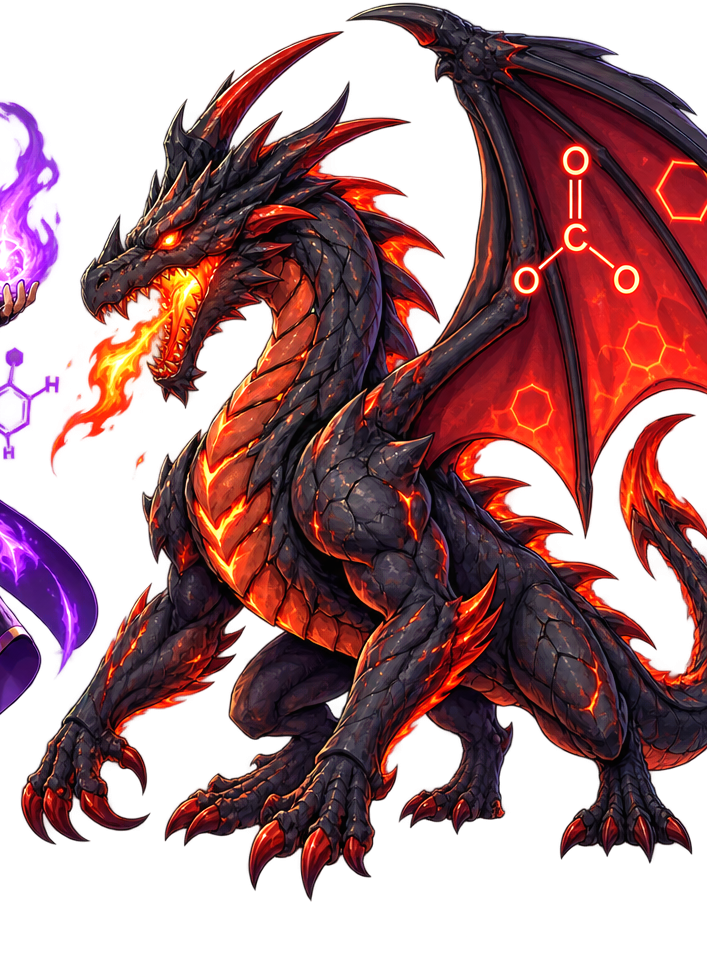
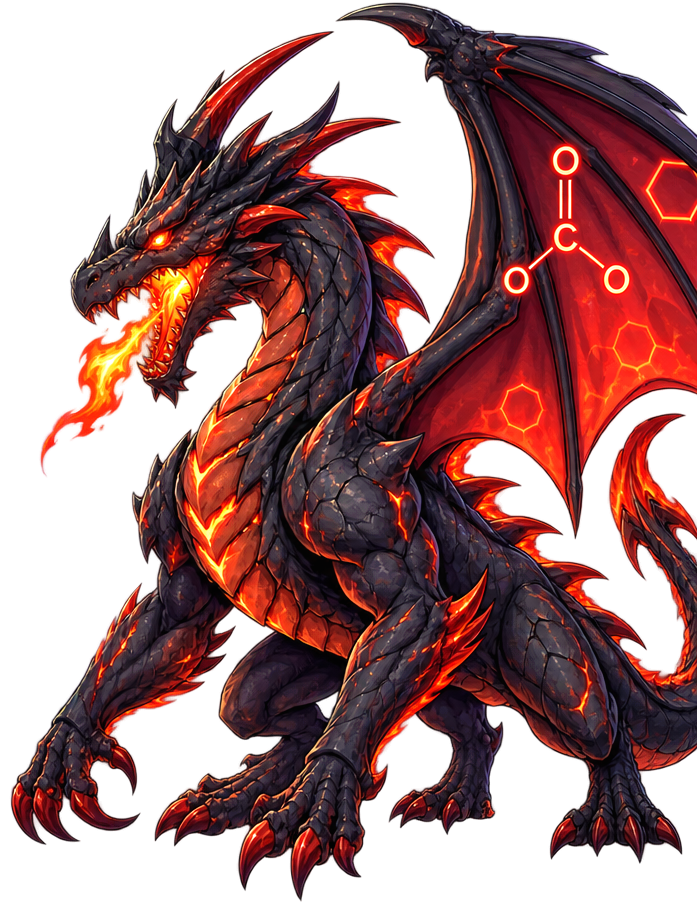
Updated pngs
pictures no more bleeding

diff --git a/static/css/game.css b/static/css/game.css
@@ -1,5 +1,5 @@
 @import url('https://fonts.googleapis.com/css2?family=DM+Mono:wght@400;500&family=Space+Grotesk:wght@400;500;600;700&display=swap');
-:root{--ink:#eaf7f5;--muted:#91aaa9;--cyan:#36e5d0;--violet:#a67cff;--orange:#ff9f5a;--panel:rgba(9,21,31,.86)}*{box-sizing:border-box}body{margin:0;background:#07111c;color:var(--ink);font-family:'Space Grotesk',sans-serif;min-height:100vh}button{font:inherit;color:inherit;cursor:pointer}#app{min-height:100vh;background:radial-gradient(circle at 50% 0,#143448 0,#07111c 52%);overflow:hidden}.hidden{display:none!important}.sigil{font-size:4rem;color:var(--cyan);text-shadow:0 0 30px var(--cyan);animation:pulse 2s infinite}.eyebrow,.panel-title{font:500 .7rem 'DM Mono',monospace;letter-spacing:.18em;color:var(--cyan)}#boot{min-height:100vh;display:grid;place-content:center;justify-items:center;text-align:center;padding:24px;background:linear-gradient(135deg,rgba(7,17,28,.65),rgba(7,17,28,.95)),url('/static/assets/battle-arena.png') center/cover}h1{font-size:clamp(4rem,12vw,10rem);line-height:.82;letter-spacing:-.08em;margin:20px 0}h1 span{color:transparent;-webkit-text-stroke:2px var(--cyan)}#boot p{color:var(--muted);margin:0 0 34px}#start,.primary{border:1px solid var(--cyan);background:rgba(54,229,208,.12);padding:16px 24px;letter-spacing:.12em;font-size:.75rem;transition:.2s}#start:hover,.primary:hover{background:var(--cyan);color:#06111b;box-shadow:0 0 35px #36e5d077}header{height:68px;display:flex;align-items:center;justify-content:space-between;padding:0 28px;border-bottom:1px solid #21404b;background:#071522dd;position:relative;z-index:4}.brand{font-weight:700;letter-spacing:.08em}.brand span{color:var(--cyan)}.brand i{font-style:normal;color:var(--orange);font-size:.7rem;margin-left:5px}.brand+div{font:500 .7rem 'DM Mono',monospace;color:var(--muted)}#mute{border:0;background:none;color:var(--muted);font:500 .65rem 'DM Mono',monospace}.game-shell{}#game-view{height:52vh;min-height:340px;display:grid;grid-template-columns:minmax(0,1fr) 300px;gap:14px;padding:14px;max-width:1500px;margin:auto}#phaser{border:1px solid #224650;border-radius:16px;overflow:hidden;background:#0b1e2c;min-height:340px}#side-panel{background:var(--panel);border:1px solid #224650;border-radius:16px;padding:18px;display:flex;flex-direction:column;gap:14px}.panel-title{padding-bottom:10px;border-bottom:1px solid #24414a}#log{font:400 .74rem/1.55 'DM Mono',monospace;color:#a8c5c0;overflow:auto}.log-line{padding:8px 0;border-bottom:1px solid #17323d}.avatar-card{display:flex;align-items:center;gap:12px}.avatar-orb{width:56px;height:56px;border-radius:50%;background:radial-gradient(circle at 60% 30%,#ffe0c0 0 20%,#6c3d79 21% 40%,#143849 41%);border:2px solid var(--cyan);box-shadow:0 0 20px #36e5d077}.avatar-name{font-weight:600}.avatar-sub{font:500 .62rem 'DM Mono',monospace;color:var(--muted)}#controls{max-width:1500px;margin:auto;padding:0 14px 20px;display:grid;grid-template-columns:minmax(300px,1fr) minmax(300px,1.3fr);gap:14px}.control-panel{background:var(--panel);border:1px solid #224650;border-radius:16px;padding:16px}.control-title{font-size:.75rem;color:var(--muted);margin-bottom:12px}.spell-grid{display:grid;grid-template-columns:repeat(3,1fr);gap:8px}.spell{border:1px solid #2b515b;background:#0b202b;border-radius:10px;padding:10px;text-align:left;min-height:74px;transition:.2s}.spell:hover:not(:disabled){border-color:var(--cyan);transform:translateY(-2px)}.spell:disabled{opacity:.38;cursor:not-allowed}.spell-name{font-weight:600;font-size:.78rem}.spell-meta{font:500 .6rem 'DM Mono',monospace;color:var(--orange);margin-top:7px}.question{font-size:1rem;line-height:1.35;margin-bottom:14px}.answers{display:grid;grid-template-columns:1fr 1fr;gap:8px}.answer{border:1px solid #2b515b;background:#0b202b;border-radius:10px;padding:12px;text-align:left;min-height:62px}.answer:hover{border-color:var(--violet);background:#18243e}.hint{font:500 .62rem 'DM Mono',monospace;color:var(--cyan)}@keyframes pulse{50%{transform:scale(1.08);filter:brightness(1.4)}}@media(max-width:800px){header{padding:0 14px}.brand{font-size:.8rem}#game-view{grid-template-columns:1fr;height:auto}#side-panel{min-height:160px}#controls{grid-template-columns:1fr}.spell-grid{grid-template-columns:repeat(3,1fr)}.spell{padding:8px}.spell-name{font-size:.68rem}}
+:root{--ink:#eaf7f5;--muted:#91aaa9;--cyan:#36e5d0;--violet:#a67cff;--orange:#ff9f5a;--panel:rgba(9,21,31,.86)}*{box-sizing:border-box}body{margin:0;background:#07111c;color:var(--ink);font-family:'Space Grotesk',sans-serif;min-height:100vh}button{font:inherit;color:inherit;cursor:pointer}#app{min-height:100vh;background:radial-gradient(circle at 50% 0,#143448 0,#07111c 52%);overflow:hidden}.hidden{display:none!important}.sigil{font-size:4rem;color:var(--cyan);text-shadow:0 0 30px var(--cyan);animation:pulse 2s infinite}.eyebrow,.panel-title{font:500 .7rem 'DM Mono',monospace;letter-spacing:.18em;color:var(--cyan)}#boot{min-height:100vh;display:grid;place-content:center;justify-items:center;text-align:center;padding:24px;background:linear-gradient(135deg,rgba(7,17,28,.65),rgba(7,17,28,.95)),url('/static/assets/battle-arena.png') center/cover}h1{font-size:clamp(4rem,12vw,10rem);line-height:.82;letter-spacing:-.08em;margin:20px 0}h1 span{color:transparent;-webkit-text-stroke:2px var(--cyan)}#boot p{color:var(--muted);margin:0 0 34px}#start,.primary{border:1px solid var(--cyan);background:rgba(54,229,208,.12);padding:16px 24px;letter-spacing:.12em;font-size:.75rem;transition:.2s}#start:hover,.primary:hover{background:var(--cyan);color:#06111b;box-shadow:0 0 35px #36e5d077}header{height:68px;display:flex;align-items:center;justify-content:space-between;padding:0 28px;border-bottom:1px solid #21404b;background:#071522dd;position:relative;z-index:4}.brand{font-weight:700;letter-spacing:.08em}.brand span{color:var(--cyan)}.brand i{font-style:normal;color:var(--orange);font-size:.7rem;margin-left:5px}.brand+div{font:500 .7rem 'DM Mono',monospace;color:var(--muted)}#mute{border:0;background:none;color:var(--muted);font:500 .65rem 'DM Mono',monospace}.game-shell{}#game-view{height:52vh;min-height:340px;display:grid;grid-template-columns:minmax(0,1fr) 300px;gap:14px;padding:14px;max-width:1500px;margin:auto}#phaser{border:1px solid #224650;border-radius:16px;overflow:hidden;background:#0b1e2c;min-height:340px}#side-panel{background:var(--panel);border:1px solid #224650;border-radius:16px;padding:18px;display:flex;flex-direction:column;gap:14px}.panel-title{padding-bottom:10px;border-bottom:1px solid #24414a}#log{font:400 .74rem/1.55 'DM Mono',monospace;color:#a8c5c0;overflow:auto}.log-line{padding:8px 0;border-bottom:1px solid #17323d}.avatar-card{display:flex;align-items:center;gap:12px}.avatar-name{font-weight:600}.avatar-sub{font:500 .62rem 'DM Mono',monospace;color:var(--muted)}#controls{max-width:1500px;margin:auto;padding:0 14px 20px;display:grid;grid-template-columns:minmax(300px,1fr) minmax(300px,1.3fr);gap:14px}.control-panel{background:var(--panel);border:1px solid #224650;border-radius:16px;padding:16px}.control-title{font-size:.75rem;color:var(--muted);margin-bottom:12px}.spell-grid{display:grid;grid-template-columns:repeat(3,1fr);gap:8px}.spell{border:1px solid #2b515b;background:#0b202b;border-radius:10px;padding:10px;text-align:left;min-height:74px;transition:.2s}.spell:hover:not(:disabled){border-color:var(--cyan);transform:translateY(-2px)}.spell:disabled{opacity:.38;cursor:not-allowed}.spell-name{font-weight:600;font-size:.78rem}.spell-meta{font:500 .6rem 'DM Mono',monospace;color:var(--orange);margin-top:7px}.question{font-size:1rem;line-height:1.35;margin-bottom:14px}.answers{display:grid;grid-template-columns:1fr 1fr;gap:8px}.answer{border:1px solid #2b515b;background:#0b202b;border-radius:10px;padding:12px;text-align:left;min-height:62px}.answer:hover{border-color:var(--violet);background:#18243e}.hint{font:500 .62rem 'DM Mono',monospace;color:var(--cyan)}@keyframes pulse{50%{transform:scale(1.08);filter:brightness(1.4)}}@media(max-width:800px){header{padding:0 14px}.brand{font-size:.8rem}#game-view{grid-template-columns:1fr;height:auto}#side-panel{min-height:160px}#controls{grid-template-columns:1fr}.spell-grid{grid-template-columns:repeat(3,1fr)}.spell{padding:8px}.spell-name{font-size:.68rem}}
 
 /* Keep avatar finalization visually anchored to the left side of the opening screen. */
 #avatar-creator{min-height:100vh;width:100%;display:flex;flex-direction:column;justify-content:center;align-items:flex-start;padding:clamp(32px,7vw,96px);padding-right:50vw;background:linear-gradient(90deg,rgba(7,17,28,.96) 0%,rgba(7,17,28,.78) 48%,rgba(7,17,28,.12) 100%),url('/static/assets/battle-arena.png') center/cover}
@@ -11,20 +11,12 @@
 .avatar-form label{display:flex;flex-direction:column;gap:7px;font:500 .65rem 'DM Mono',monospace;letter-spacing:.12em;color:var(--cyan)}
 .avatar-form select{width:100%;border:1px solid #2b515b;border-radius:8px;background:#0b202b;color:var(--ink);padding:11px 12px;font:400 .82rem 'Space Grotesk',sans-serif;letter-spacing:0}
 .avatar-preview{display:flex;align-items:center;gap:14px;margin-bottom:26px;color:var(--muted);font:500 .65rem 'DM Mono',monospace;letter-spacing:.08em}
-.avatar-orb.large{width:92px;height:92px;flex:none}
 #avatar-creator .primary{width:auto;align-self:flex-start}
 @media(max-width:800px){#avatar-creator{align-items:center;padding:48px 24px;background:linear-gradient(135deg,rgba(7,17,28,.86),rgba(7,17,28,.97)),url('/static/assets/battle-arena.png') center/cover}#avatar-creator>*{max-width:560px}.avatar-form{grid-template-columns:1fr 1fr}}
 @media(max-width:480px){.avatar-form{grid-template-columns:1fr}.avatar-preview{align-items:flex-start;flex-direction:column}}
 
-.avatar-figure{position:relative;width:110px;height:150px;flex:none;filter:drop-shadow(0 0 18px rgba(54,229,208,.25))}
-.avatar-figure .avatar-aura{position:absolute;left:5px;top:18px;width:100px;height:100px;border:2px solid var(--avatar-accessory,#36e5d0);border-radius:50%;background:radial-gradient(circle,rgba(54,229,208,.2),transparent 68%);box-shadow:0 0 22px var(--avatar-accessory,#36e5d0)}
-.avatar-figure .avatar-body{position:absolute;left:24px;top:66px;width:62px;height:76px;border-radius:28px 28px 12px 12px;background:var(--avatar-outfit,#29556b);border:2px solid var(--avatar-body,#29556b);z-index:2}
-.avatar-figure .avatar-head{position:absolute;left:34px;top:28px;width:42px;height:48px;border-radius:48% 48% 45% 45%;background:var(--avatar-skin,#ffd4b2);border:2px solid #07111c;z-index:3}
-.avatar-figure .avatar-hair{position:absolute;left:-2px;top:-5px;width:42px;height:22px;border-radius:50% 50% 35% 35%;background:var(--avatar-hair,#6c3d79)}
-.avatar-figure .avatar-accessory{position:absolute;left:27px;top:48px;width:56px;height:7px;border:2px solid var(--avatar-accessory,#36e5d0);border-radius:8px;z-index:4;box-shadow:0 0 8px var(--avatar-accessory,#36e5d0)}
-.avatar-figure.large{transform:scale(1.05);transform-origin:left center}
 .avatar-preview{min-height:150px}
-@media(min-width:801px){#avatar-creator .avatar-preview{position:absolute;top:50%;right:clamp(5vw,12vw,16vw);width:min(30vw,300px);min-height:0;transform:translateY(-50%);flex-direction:column;justify-content:center;gap:22px;text-align:center}#avatar-creator .avatar-figure.large{transform:scale(1.55);transform-origin:center}#avatar-creator #avatar-preview-label{width:100%;text-align:center}}
+@media(min-width:801px){#avatar-creator .avatar-preview{position:absolute;top:50%;right:clamp(5vw,12vw,16vw);width:min(30vw,300px);min-height:0;transform:translateY(-50%);flex-direction:column;justify-content:center;gap:22px;text-align:center}#avatar-creator #avatar-preview-label{width:100%;text-align:center}}
 @media(max-width:800px){#avatar-creator .avatar-preview{position:static;width:auto;transform:none}}
 .header-help{border:1px solid #2b515b;border-radius:999px;background:rgba(54,229,208,.08);padding:8px 12px;color:var(--muted);font:500 .62rem 'DM Mono',monospace;letter-spacing:.08em;transition:.2s}
 .header-help:hover,.header-help.available{border-color:var(--cyan);color:var(--cyan);background:rgba(54,229,208,.16)}
@@ -43,45 +35,17 @@
 .outcome-card .primary{margin-top:10px}
 @media(max-width:800px){.brand-group{display:flex;align-items:center;gap:8px}.header-help{padding:7px 9px;font-size:.55rem}.modal-card{padding:24px 20px}}
 
-/* Inline SVG avatar system: artwork stays in SVG, while CSS owns motion and effects. */
+/* Avatar staging: illustrated raster artwork stays in the character PNGs,
+   while CSS owns layout, motion, and presentation effects. */
 #phaser{position:relative}
 .avatar-stage{position:absolute;inset:0;z-index:2;pointer-events:none;overflow:hidden}
 .avatar{position:absolute;bottom:3%;width:clamp(170px,24vw,290px);height:auto;transform-origin:50% 100%;filter:drop-shadow(0 18px 16px rgba(0,0,0,.35));}
 .avatar-player{left:7%;width:clamp(155px,23vw,270px)}
 .avatar-boss{right:4%;width:clamp(210px,34vw,390px)}
-.avatar.face-left .avatar-svg{transform:scaleX(-1)}
-.avatar-svg{display:block;width:100%;height:auto;overflow:visible}
 .avatar-label{position:absolute;bottom:-2px;left:50%;transform:translateX(-50%);white-space:nowrap;padding:5px 9px;border:1px solid #2b6870;border-radius:999px;background:rgba(5,15,24,.82);font:500 .62rem 'DM Mono',monospace;letter-spacing:.06em;color:var(--cyan)}
 .avatar-preview-art{position:relative!important;inset:auto!important;width:150px!important;height:196px;flex:none;filter:drop-shadow(0 10px 12px rgba(0,0,0,.35))}
-.avatar-preview-art .avatar-svg{height:100%}
+.avatar-panel-art{position:relative!important;inset:auto!important;width:56px!important;height:74px;flex:none;filter:drop-shadow(0 6px 8px rgba(0,0,0,.35))}
 .boss-label{color:var(--orange);border-color:#805033}
-.avatar.state-idle .torso,.avatar.state-idle .body{animation:avatar-breathe 3.2s ease-in-out infinite}
-.avatar.state-idle .flask-bubbles{animation:bubble-rise 2.2s ease-in-out infinite}
-.avatar.state-idle .magic-glow,.avatar.state-idle .reaction-flame{animation:avatar-glow 2.6s ease-in-out infinite}
-.avatar.state-idle .molecule-ring{animation:molecule-orbit 12s linear infinite;transform-box:fill-box;transform-origin:center}
-.avatar.state-idle .left-wing,.avatar.state-idle .right-wing{animation:dragon-wing-idle 4s ease-in-out infinite;transform-box:fill-box;transform-origin:bottom center}
-.avatar.state-idle .tail{animation:dragon-tail 4.8s ease-in-out infinite;transform-box:fill-box;transform-origin:left center}
-.avatar.state-cast{animation:avatar-cast .7s ease-out}
-.avatar.state-cast .right-arm{animation:cast-arm .62s ease-out;transform-box:fill-box;transform-origin:top center}
-.avatar.state-cast .flask,.avatar.state-cast .reaction-flame{animation:cast-glow .7s ease-out}
-.avatar.state-hit{animation:avatar-hit .34s ease-in-out}
-.avatar.state-miss{animation:avatar-miss .42s ease-in-out}
-.avatar.state-defeated{animation:avatar-defeat .9s ease-in forwards}
-.avatar.state-victory{animation:avatar-victory .8s ease-out}
-.avatar.state-defeated .fire,.avatar.state-defeated .mouth-glow{opacity:.15;transition:opacity .4s}
-@keyframes avatar-breathe{0%,100%{transform:translateY(0)}50%{transform:translateY(-4px)}}
-@keyframes bubble-rise{0%,100%{transform:translateY(5px);opacity:.45}50%{transform:translateY(-8px);opacity:1}}
-@keyframes avatar-glow{0%,100%{opacity:.65}50%{opacity:1;filter:drop-shadow(0 0 8px currentColor)}}
-@keyframes molecule-orbit{to{transform:rotate(360deg)}}
-@keyframes dragon-wing-idle{0%,100%{transform:rotate(0)}50%{transform:rotate(2deg) translateY(-3px)}}
-@keyframes dragon-tail{0%,100%{transform:rotate(0)}50%{transform:rotate(-3deg)}}
-@keyframes avatar-cast{0%{transform:translateX(0)}45%{transform:translateX(18px) scale(1.03)}100%{transform:translateX(0)}}
-@keyframes cast-arm{50%{transform:rotate(-22deg)}}
-@keyframes cast-glow{50%{filter:drop-shadow(0 0 18px #8ffff0);opacity:1}}
-@keyframes avatar-hit{0%,100%{transform:translateX(0)}25%{transform:translateX(-9px)}50%{transform:translateX(8px)}75%{transform:translateX(-3px)}}
-@keyframes avatar-miss{50%{transform:rotate(-5deg) translateX(-6px);opacity:.65}}
-@keyframes avatar-defeat{to{transform:translateY(24px) rotate(-5deg);opacity:.38;filter:grayscale(.7)}}
-@keyframes avatar-victory{50%{transform:translateY(-14px) rotate(-2deg)}}
 @media(prefers-reduced-motion:reduce){*,*::before,*::after{animation-duration:.001ms!important;animation-iteration-count:1!important;scroll-behavior:auto!important}.avatar.state-defeated{opacity:.5}}
 @media(max-width:600px){.avatar-player{left:1%;width:clamp(125px,35vw,200px)}.avatar-boss{right:-4%;width:clamp(165px,43vw,270px)}.avatar-label{font-size:.52rem}.avatar-stage{bottom:2%}}
 
@@ -91,21 +55,10 @@
 #log{flex:1;min-height:0;overflow-x:hidden;overflow-y:auto;padding-right:5px;scroll-behavior:smooth}
 .log-line{overflow-wrap:anywhere;word-break:break-word}
 
-/* Avatar System V3 configuration layers. Primary anatomy remains illustrated SVG paths;
-   these selectors recolor only the intended material or swap an illustrated layer. */
-.organic-apprentice .head>path:first-child{fill:#d99b78}
-.organic-apprentice.skin-light .head>path:first-child{fill:#f7c7a2}.organic-apprentice.skin-light-medium .head>path:first-child{fill:#eab18c}.organic-apprentice.skin-medium .head>path:first-child{fill:#d99b78}.organic-apprentice.skin-medium-deep .head>path:first-child{fill:#ae725b}.organic-apprentice.skin-deep .head>path:first-child{fill:#7d4b42}
-.organic-apprentice .head>path:nth-child(2),.organic-apprentice .hair-variant{fill:#193d2d}.organic-apprentice.hair-color-black .head>path:nth-child(2),.organic-apprentice.hair-color-black .hair-variant{fill:#141b20}.organic-apprentice.hair-color-brown .head>path:nth-child(2),.organic-apprentice.hair-color-brown .hair-variant{fill:#69402f}.organic-apprentice.hair-color-dark-purple .head>path:nth-child(2),.organic-apprentice.hair-color-dark-purple .hair-variant{fill:#38234e}.organic-apprentice.hair-color-blue-black .head>path:nth-child(2),.organic-apprentice.hair-color-blue-black .hair-variant{fill:#172e43}
-.organic-apprentice .hair-variant{display:none}.organic-apprentice.hair-style-side-swept .head>path:nth-child(2),.organic-apprentice.hair-style-spiky .head>path:nth-child(2),.organic-apprentice.hair-style-curly .head>path:nth-child(2),.organic-apprentice.hair-style-medium-layered .head>path:nth-child(2){display:none}.organic-apprentice.hair-style-side-swept .hair-side-swept,.organic-apprentice.hair-style-spiky .hair-spiky,.organic-apprentice.hair-style-curly .hair-curly,.organic-apprentice.hair-style-medium-layered .hair-medium-layered{display:block}
-.organic-apprentice.glasses-none .glasses{display:none}.organic-apprentice.glasses-round-black .glasses,.organic-apprentice.glasses-round-green .glasses{display:block}.organic-apprentice.glasses-round-black .glasses{stroke:#101923}.organic-apprentice.glasses-rectangular-black .glasses{stroke:#101923;transform:scaleX(1.12);transform-origin:center}.organic-apprentice.glasses-thin-silver .glasses{stroke:#d4e0e2;stroke-width:3}
-.organic-apprentice.coat-green-trim .torso>path:first-child{stroke:#2fae76}.organic-apprentice.coat-blue-trim .torso>path:first-child{stroke:#438fd5}.organic-apprentice.coat-advanced-chemist .torso>path:first-child{fill:#d9e5e7;stroke:#8864ce}.organic-apprentice.coat-reaction-coat .torso>path:first-child{fill:#e8dff7;stroke:#a66cff}
-.organic-apprentise .torso>path:nth-child(2){fill:#1d7065}.organic-apprentice.shirt-forest-green .torso>path:nth-child(2){fill:#1d7065}.organic-apprentice.shirt-navy .torso>path:nth-child(2){fill:#1f416c}.organic-apprentice.shirt-black .torso>path:nth-child(2){fill:#19212a}.organic-apprentice.shirt-purple .torso>path:nth-child(2){fill:#553b7f}.organic-apprentice.shirt-white .torso>path:nth-child(2){fill:#eff8f4}
-.organic-apprentice.pants-dark-green .legs>path:nth-child(-n+2){fill:#173d42}.organic-apprentice.pants-charcoal .legs>path:nth-child(-n+2){fill:#303844}.organic-apprentice.pants-navy .legs>path:nth-child(-n+2){fill:#1d3157}.organic-apprentice.pants-black .legs>path:nth-child(-n+2){fill:#151b24}
-.organic-apprentice.shoes-black-sneakers .legs>path:nth-child(n+3){fill:#202631}.organic-apprentice.shoes-chemist-boots .legs>path:nth-child(n+3){fill:#6f4938}.organic-apprentice.shoes-reaction-boots .legs>path:nth-child(n+3){fill:#4c3d91}
-.organic-apprentice.satchel-dark-lab-bag .satchel>path:first-child{fill:#293442}.organic-apprentice.satchel-reaction-pouch .satchel>path:first-child{fill:#553875}.organic-apprentice.satchel-advanced-alchemist-pack .satchel>path:first-child{fill:#244c59}
-.organic-apprentice.flask-blue-catalyst .flask-liquid{fill:#43a9ff}.organic-apprentice.flask-purple-reagent .flask-liquid{fill:#a95bff}.organic-apprentice.flask-orange-energy .flask-liquid{fill:#ff873d}
-.organic-apprentice.accent-azure .magic-glow{color:#54bfff}.organic-apprentice.accent-violet .magic-glow{color:#b66cff}.organic-apprentice.accent-amber .magic-glow{color:#ffc15c}.organic-apprentice.accent-crimson .magic-glow{color:#ff6c71}
-.organic-apprentice .accessory-layer>path{display:none}.organic-apprentice.accessory-benzene-pin .accessory-benzene-pin,.organic-apprentice.accessory-periodic-table-badge .accessory-periodic-table-badge,.organic-apprentice.accessory-molecule-brooch .accessory-molecule-brooch,.organic-apprentice.accessory-reaction-arrow-pin .accessory-reaction-arrow-pin,.organic-apprentice.accessory-chemist-gloves .accessory-chemist-gloves,.organic-apprentice.accessory-wrist-device .accessory-wrist-device{display:block}
+/* Avatar System V3 configuration layers. The character is rendered as a single
+   illustrated raster asset; recoloring is applied via CSS custom-property filters
+   on the image itself (see --tone-filter/--hair-filter/--gear-filter below) rather
+   than per-part SVG selectors, since the artwork is not inline SVG. */
 .avatar-art-frame{position:relative;width:100%;line-height:0;z-index:1}.avatar-art{display:block;width:100%;height:auto;max-height:100%;object-fit:contain;user-select:none;filter:drop-shadow(0 16px 13px rgba(0,0,0,.42)) var(--tone-filter) var(--hair-filter) var(--gear-filter)}.avatar-fallback{display:none}.avatar-asset-fallback .avatar-fallback{display:block;position:absolute;inset:auto 0 8%;text-align:center;color:var(--cyan);font:500 .62rem 'DM Mono',monospace}.avatar-effects{position:absolute;inset:0;z-index:2;pointer-events:none;color:var(--accent-color,#36e5d0)}.effect-aura{position:absolute;left:18%;right:18%;bottom:5%;height:16%;border-radius:50%;background:radial-gradient(ellipse, currentColor 0, transparent 70%);opacity:.22;filter:blur(7px)}.effect-spark{position:absolute;width:7px;height:7px;border-radius:50%;background:currentColor;box-shadow:0 0 12px currentColor;opacity:.8}.spark-one{left:20%;top:22%}.spark-two{right:17%;top:34%}.effect-accessory{position:absolute;right:15%;top:43%;font:700 1.25rem/1 Georgia,serif;color:currentColor;text-shadow:0 0 10px currentColor;opacity:.88}
 .face-left .avatar-art-frame{transform:scaleX(-1)}
 .avatar.state-idle .avatar-art{animation:raster-breathe 3.2s ease-in-out infinite}.avatar.state-cast .avatar-art{animation:raster-cast .7s ease-out}.avatar.state-hit .avatar-art{animation:raster-hit .34s ease-in-out}.avatar.state-miss .avatar-art{animation:raster-miss .42s ease-in-out}.avatar.state-defeated .avatar-art{animation:raster-defeat .9s ease-in forwards}.avatar.state-victory .avatar-art{animation:raster-victory .8s ease-out}.avatar.state-cast .effect-aura{animation:raster-cast-aura .7s ease-out}.avatar.state-cast .spark-one,.avatar.state-cast .spark-two{animation:raster-spark .55s ease-out infinite alternate}.avatar.state-defeated .avatar-effects{opacity:.2;transition:opacity .4s}

diff --git a/static/js/avatars.js b/static/js/avatars.js
@@ -1,5 +1,3 @@
-import { apprentice as polishedApprentice, mage as polishedMage, dragon as polishedDragon } from './avatar-art.js';
-
 const AVATAR_STATES = new Set(['idle', 'enter', 'cast', 'attack', 'hit', 'critical-hit', 'miss', 'victory', 'defeated', 'level-up']);
 
 export const DEFAULT_AVATAR_CONFIG = {
@@ -60,38 +58,6 @@ export const CHARACTERS = {
   'reaction-mage': { name: 'Reaction Mage', type: 'player', asset: '/static/assets/avatars/reaction-mage.png' },
   'carbonyl-dragon': { name: 'Carbonyl Dragon', type: 'boss', asset: '/static/assets/avatars/carbonyl-dragon.png' },
 };
-
-const esc = (value) => String(value).replace(/[&<>"']/g, (char) => ({ '&': '&amp;', '<': '&lt;', '>': '&gt;', '"': '&quot;', "'": '&#39;' }[char]));
-
-function apprentice() {
-  return `<svg viewBox="0 0 400 500" role="img" aria-label="Organic Apprentice" class="avatar-svg">
-    <defs><linearGradient id="coat" x1="0" y1="0" x2="1" y2="1"><stop stop-color="#f7fff8"/><stop offset="1" stop-color="#b8d9d0"/></linearGradient><linearGradient id="flask" x1="0" y1="0" x2="0" y2="1"><stop stop-color="#b8fff1"/><stop offset="1" stop-color="#22cfae"/></linearGradient></defs>
-    <g class="shadow"><ellipse cx="200" cy="466" rx="112" ry="18" fill="#06131d" opacity=".7"/></g>
-    <g class="legs"><path d="M151 365v73h39l10-73zm61 0 9 73h39v-73z" fill="#182b40" stroke="#081723" stroke-width="7"/><path d="M139 432h57l-8 27h-70q-4-17 21-27zm70 0h56q22 8 29 27h-82z" fill="#43a59d" stroke="#081723" stroke-width="7"/></g>
-    <g class="torso"><path d="M128 205q72-35 144 0l30 167q-102 37-204 0z" fill="url(#coat)" stroke="#112b3a" stroke-width="8"/><path d="M170 211h60l-10 118h-40z" fill="#24766d"/><path d="m173 215 27 35 27-35" fill="none" stroke="#9cfff0" stroke-width="6"/></g>
-    <g class="satchel"><path d="m99 244q-44 45-24 137l57-14-18-132z" fill="#a86a42" stroke="#372839" stroke-width="8"/><path d="m82 285 51-13" stroke="#f4ba69" stroke-width="8"/></g>
-    <g class="head"><path d="M137 120q3-70 64-76 65 7 65 79v62q-11 54-65 55-55-2-64-55z" fill="#f1b788" stroke="#112b3a" stroke-width="8"/><path d="M137 127q-8-82 68-91 70 15 66 91l-30-36-20 23-32-23-25 29z" fill="#203d35" stroke="#112b3a" stroke-width="8"/><path d="M169 167q30 18 60 0" fill="none" stroke="#7b3e46" stroke-width="6" stroke-linecap="round"/><circle cx="174" cy="150" r="5" fill="#112b3a"/><circle cx="226" cy="150" r="5" fill="#112b3a"/></g>
-    <g class="glasses" fill="none" stroke="#39e6d0" stroke-width="7"><circle cx="173" cy="148" r="24"/><circle cx="227" cy="148" r="24"/><path d="M197 148h6m-57-2-18-8m96 8 18-8"/></g>
-    <g class="left-arm"><path d="m138 226-46 91q-8 21 13 28 17 6 27-14l46-76z" fill="url(#coat)" stroke="#112b3a" stroke-width="8"/></g>
-    <g class="right-arm"><path d="m260 226 55 83q11 21-9 32-16 8-29-12l-51-72z" fill="url(#coat)" stroke="#112b3a" stroke-width="8"/></g>
-    <g class="flask"><path d="M282 293h25v34l31 61q9 21-12 29h-64q-21-8-12-29l32-61z" fill="#d8fff7" fill-opacity=".85" stroke="#42e5cc" stroke-width="7"/><path class="flask-liquid" d="m261 374h67l10 22q3 10-12 14h-64q-15-4-11-14z" fill="url(#flask)"/><path class="flask-bubbles" d="M277 368q8-12 16 0m10-13q7-12 14 0" fill="none" stroke="#eaffff" stroke-width="5" stroke-linecap="round"/></g>
-    <g class="magic-glow"><circle cx="296" cy="390" r="65" fill="none" stroke="#36e5d0" stroke-width="3" opacity=".35"/><circle cx="326" cy="334" r="6" fill="#a8fff1"/><circle cx="245" cy="300" r="5" fill="#36e5d0"/></g>
-  </svg>`;
-}
-
-function mage() {
-  return `<svg viewBox="0 0 400 500" role="img" aria-label="Reaction Mage" class="avatar-svg"><defs><linearGradient id="robe" x1="0" y1="0" x2="1" y2="1"><stop stop-color="#30234f"/><stop offset="1" stop-color="#100e29"/></linearGradient></defs><g class="shadow"><ellipse cx="200" cy="466" rx="120" ry="17" fill="#06131d" opacity=".75"/></g><g class="legs"><path d="m145 425-25 37h78l-5-37zm82 0-5 37h78l-25-37z" fill="#17132c" stroke="#0b0b1b" stroke-width="8"/></g><g class="robe"><path d="M145 210q55-37 110 0l70 221q-125 37-250 0z" fill="url(#robe)" stroke="#a67cff" stroke-width="8"/><path d="M150 274h100M138 348h124" stroke="#d8bbff" stroke-width="5" opacity=".8"/><path d="M180 236l20 20 20-20v76h-40z" fill="#7d49bd"/></g><g class="head"><path d="M145 105q8-65 55-65t55 65v82q-11 45-55 45t-55-45z" fill="#d99b78" stroke="#0f1023" stroke-width="8"/><path d="M142 113q-1-80 61-85 66 11 56 88l-32-46-22 25-28-19-28 38z" fill="#19142f" stroke="#0f1023" stroke-width="8"/><path d="M176 166q24 13 48 0" fill="none" stroke="#743c65" stroke-width="6"/><circle cx="173" cy="145" r="5"/><circle cx="227" cy="145" r="5"/></g><g class="left-arm"><path d="m148 235-67 63q-13 15 2 28 14 11 30-3l74-55z" fill="#30234f" stroke="#a67cff" stroke-width="8"/></g><g class="right-arm"><path d="m252 235 59 23 33-71" fill="none" stroke="#30234f" stroke-width="31" stroke-linecap="round"/><path d="M344 185V80" stroke="#d8bbff" stroke-width="8"/><path d="m323 102 21-34 21 34" fill="none" stroke="#a67cff" stroke-width="7"/></g><g class="belt"><path d="M137 303h126" stroke="#d8bbff" stroke-width="10"/><circle cx="200" cy="303" r="13" fill="#ffb85c"/></g><g class="reaction-flame"><path d="M200 225q-28 27 0 54 28-27 0-54z" fill="#db65ff" stroke="#f3c5ff" stroke-width="4"/><circle cx="200" cy="250" r="55" fill="none" stroke="#a67cff" stroke-width="3" opacity=".5"/></g><g class="molecule-ring" fill="none" stroke="#d8bbff" stroke-width="4"><path d="m80 130 25-15 25 15v30l-25 15-25-15zM270 102l22-13 22 13v26l-22 13-22-13z"/><path d="M130 145h140M105 160l95 90m95-120-95 120"/></g><g class="particles" fill="#f3c5ff"><circle cx="74" cy="245" r="6"/><circle cx="316" cy="314" r="5"/><circle cx="290" cy="55" r="4"/></g></svg>`;
-}
-
-function dragon() {
-  return `<svg viewBox="0 0 520 500" role="img" aria-label="Carbonyl Dragon" class="avatar-svg"><defs><linearGradient id="scale" x1="0" y1="0" x2="1" y2="1"><stop stop-color="#34404d"/><stop offset="1" stop-color="#111824"/></linearGradient><radialGradient id="fire"><stop stop-color="#fff4a6"/><stop offset=".45" stop-color="#ff9f43"/><stop offset="1" stop-color="#e74235" stop-opacity="0"/></radialGradient></defs><g class="shadow"><ellipse cx="270" cy="463" rx="190" ry="22" fill="#050a12" opacity=".8"/></g><g class="left-wing"><path d="M184 210 35 62 68 238 18 315l178-53z" fill="#6e223a" stroke="#101522" stroke-width="11"/><path d="m63 104 99 135M53 276l112-25" stroke="#df604c" stroke-width="5" opacity=".75"/></g><g class="right-wing"><path d="M328 205 484 54l-35 184 53 77-181-51z" fill="#6e223a" stroke="#101522" stroke-width="11"/><path d="m458 96-103 141m112 38-118-24" stroke="#df604c" stroke-width="5" opacity=".75"/></g><g class="body"><path d="M163 216q47-54 132-6l62 172q-91 57-202 0z" fill="url(#scale)" stroke="#101522" stroke-width="11"/><path d="M212 228q52-25 92 2l18 119q-52 27-104 0z" fill="#4f2637" opacity=".9"/><path d="M222 257h73M216 292h87M223 327h73" stroke="#db7d55" stroke-width="6" opacity=".7"/></g><g class="neck"><path d="M188 226q-25-70 25-128h95q51 58 20 128z" fill="url(#scale)" stroke="#101522" stroke-width="11"/></g><g class="head"><path d="M171 97q11-66 83-72 80 10 94 72v84q-20 48-94 52-74-4-83-52z" fill="url(#scale)" stroke="#101522" stroke-width="11"/><path d="m180 100-38-55 62 28m118 27 40-55-66 28" fill="#273441" stroke="#101522" stroke-width="11"/><path class="upper-jaw" d="m185 156q71-28 145 0l-30 45h-88z" fill="#202936" stroke="#101522" stroke-width="8"/><path class="lower-jaw" d="m211 197h95l-25 28h-47z" fill="#131a26" stroke="#101522" stroke-width="8"/><circle cx="215" cy="124" r="11" fill="#ff5543"/><circle cx="304" cy="124" r="11" fill="#ff5543"/></g><g class="front-legs"><path d="m184 315-49 103q-9 23 15 29 19 4 28-18l55-91m108-23 50 103q9 23-15 29-19 4-28-18l-55-91" fill="none" stroke="#273441" stroke-width="35" stroke-linecap="round"/></g><g class="tail"><path d="M340 360q104 38 137 1 25-28 20 43-31 55-168 19" fill="none" stroke="#202936" stroke-width="35" stroke-linecap="round"/></g><g class="carbonyl-markings" fill="none" stroke="#ffb45b" stroke-width="6"><circle cx="241" cy="287" r="24"/><circle cx="296" cy="287" r="24"/><path d="M265 287h7M241 263v-17m55 17v-17"/><text x="225" y="295" fill="#ffcf7c" stroke="none" font-size="18" font-family="monospace">O=C</text></g><g class="mouth-glow"><ellipse cx="257" cy="195" rx="45" ry="22" fill="url(#fire)"/></g><g class="fire"><path d="M255 198q-30 56 14 98 46-39 8-97z" fill="#ff6a3d" stroke="#ffc36b" stroke-width="5"/></g></svg>`;
-}
-
-const artwork = { 'organic-apprentice': polishedApprentice, 'reaction-mage': polishedMage, 'carbonyl-dragon': polishedDragon };
-
-function apprenticeVariantLayers(config) {
-  return `<g class="hair-variant hair-side-swept" fill="#193d2d" stroke="#102d35" stroke-width="7"><path d="M105 102Q83 52 121 26l42 8q36-20 62 17l-30 6-24 26-28-18z" stroke-linejoin="round"/><path d="M113 57q23-22 47-14m14-10q27 1 44 21" fill="none" stroke="#3b7250" stroke-width="6" stroke-linecap="round"/></g><g class="hair-variant hair-spiky" fill="#193d2d" stroke="#102d35" stroke-width="7"><path d="M104 105 91 45l32 16 9-37 25 28 28-35 10 37 34-18-18 70-30-32-23 22-27-18z" stroke-linejoin="round"/></g><g class="hair-variant hair-curly" fill="#193d2d" stroke="#102d35" stroke-width="7"><path d="M105 105q-28-40 11-69 9-27 35-13 29-22 43 9 36-3 40 35l-25 31-18-28-24 20-24-20-20 35z" stroke-linejoin="round"/><path d="M120 53q12-20 27-12m17-9q20-8 28 13m7 1q18-2 22 15" fill="none" stroke="#3b7250" stroke-width="6" stroke-linecap="round"/></g><g class="hair-variant hair-medium-layered" fill="#193d2d" stroke="#102d35" stroke-width="7"><path d="M105 104q-15-48 19-72 31-22 63-3 34 21 22 75l-31-31-25 19-28-18z" stroke-linejoin="round"/><path d="M119 49q20-20 40-13m12-8q25 2 35 21" fill="none" stroke="#3b7250" stroke-width="6" stroke-linecap="round"/></g><g class="accessory-layer"><path class="accessory-benzene-pin" d="m191 215 8-5 8 5v9l-8 5-8-5z" fill="none" stroke="#67e7bf" stroke-width="3"/><path class="accessory-periodic-table-badge" d="M190 209h18v18h-18z" fill="#4aa6d4" stroke="#dffcff" stroke-width="3"/><path class="accessory-molecule-brooch" d="m190 218 7-7 8 7-8 8z" fill="none" stroke="#d8a6ff" stroke-width="3"/><path class="accessory-reaction-arrow-pin" d="M188 221h20m-6-6 6 6-6 6" fill="none" stroke="#ffb65c" stroke-width="3"/><path class="accessory-chemist-gloves" d="m190 210 8 6-3 13-8-5z" fill="#c9f5e7" stroke="#102d35" stroke-width="3"/><path class="accessory-wrist-device" d="M238 276h17v13h-17z" fill="#5b6cff" stroke="#d4d9ff" stroke-width="3"/></g>`;
-}
 
 export function Avatar({ character = 'organic-apprentice', state = 'idle', size = 'large', direction = 'right', className = '', label = '', config = null } = {}) {
   const safeCharacter = CHARACTERS[character] ? character : 'organic-apprentice';

diff --git a/templates/index.html b/templates/index.html
@@ -1,1 +1,1 @@
-<!doctype html><html lang="en"><head><meta charset="utf-8"><meta name="viewport" content="width=device-width,initial-scale=1"><title>Organic Battles V2</title><link rel="stylesheet" href="/static/css/game.css?v=2"><script src="https://cdn.jsdelivr.net/npm/phaser@3.80.1/dist/phaser.min.js"></script></head><body><main id="app"><div id="boot"><div class="sigil">â—ˆ</div><div class="eyebrow">ORGO // FIELD STUDY 02</div><h1>ORGANIC<br><span>BATTLES</span></h1><p>Organic chemistry, reimagined as an arcane RPG.</p><button id="start">ENTER THE LABYRINTH</button></div><div id="avatar-creator" class="hidden"><div class="eyebrow">IDENTITY // FIELD ALCHEMIST</div><h2>FINALIZE YOUR AVATAR</h2><p>Once you press ACCEPT, your avatar becomes permanent for your entire ORGO journey.</p><div class="avatar-form"><label>BODY <select id="body"><option value="arc">Arc Runner</option><option value="scholar">Scholar</option></select></label><label>SKIN <select id="skin"><option value="warm">Warm</option><option value="deep">Deep</option><option value="gold">Golden</option></select></label><label>HAIR <select id="hair"><option value="nebula">Nebula</option><option value="copper">Copper</option><option value="silver">Silver</option></select></label><label>OUTFIT <select id="outfit"><option value="coat">Lab Coat</option><option value="hoodie">ORGO Hoodie</option><option value="shirt">ORGO Shirt</option></select></label><label>ACCESSORY <select id="accessory"><option value="goggles">Goggles</option><option value="gloves">Gloves</option><option value="backpack">Backpack</option></select></label></div><div class="avatar-preview"><div class="avatar-orb large"></div><span>YOUR CHEMISTRY AURA IS READY</span></div><button id="accept-avatar" class="primary">ACCEPT & BEGIN JOURNEY</button></div><div id="game-shell" class="hidden"><header><div class="brand">ORGANIC <span>BATTLES</span> <i>V2</i></div><div id="chapter-label"></div><button id="mute">â—– AUDIO</button></header><section id="game-view"><div id="phaser"></div><aside id="side-panel"><div id="avatar-panel"></div><div class="panel-title">FIELD LOG</div><div id="log"></div></aside></section><section id="controls"><div id="spells"></div><div id="question"></div></section></div></main><script type="module" src="/static/js/main.js?v=2"></script></body></html>
+<!doctype html><html lang="en"><head><meta charset="utf-8"><meta name="viewport" content="width=device-width,initial-scale=1"><title>Organic Battles V2</title><link rel="stylesheet" href="/static/css/game.css?v=2"><script src="https://cdn.jsdelivr.net/npm/phaser@3.80.1/dist/phaser.min.js"></script></head><body><main id="app"><div id="boot"><div class="sigil">â—ˆ</div><div class="eyebrow">ORGO // FIELD STUDY 02</div><h1>ORGANIC<br><span>BATTLES</span></h1><p>Organic chemistry, reimagined as an arcane RPG.</p><button id="start">ENTER THE LABYRINTH</button></div><div id="avatar-creator" class="hidden"><div class="eyebrow">IDENTITY // FIELD ALCHEMIST</div><h2>FINALIZE YOUR AVATAR</h2><p>Once you press ACCEPT, your avatar becomes permanent for your entire ORGO journey.</p><div class="avatar-form"></div><div class="avatar-preview"><span>YOUR CHEMISTRY AURA IS READY</span></div><button id="accept-avatar" class="primary">ACCEPT & BEGIN JOURNEY</button></div><div id="game-shell" class="hidden"><header><div class="brand">ORGANIC <span>BATTLES</span> <i>V2</i></div><div id="chapter-label"></div><button id="mute">â—– AUDIO</button></header><section id="game-view"><div id="phaser"></div><aside id="side-panel"><div id="avatar-panel"></div><div class="panel-title">FIELD LOG</div><div id="log"></div></aside></section><section id="controls"><div id="spells"></div><div id="question"></div></section></div></main><script type="module" src="/static/js/main.js?v=2"></script></body></html>

diff --git a/static/js/main.js b/static/js/main.js
@@ -40,21 +40,12 @@ const spells = [
   ['spectral-obliteration', 'Spectral Obliteration', 'STRONG', '45 DMG'],
 ];
 
-const avatarPalette = {
-  body: { arc: '#29556b', scholar: '#66528a' },
-  skin: { warm: '#ffd4b2', deep: '#8e563f', gold: '#d8a25e' },
-  hair: { nebula: '#6c3d79', copper: '#b7653f', silver: '#b8c8d2' },
-  outfit: { coat: '#29556b', hoodie: '#493b78', shirt: '#245e62' },
-  accessory: { goggles: '#36e5d0', gloves: '#ff9f5a', backpack: '#a67cff' },
-};
-
 function updateAvatarPreview() {
   const preview = $('.avatar-preview');
   if (!preview) return;
 
   let figure = preview.querySelector('.avatar-preview-art');
   if (!figure) {
-    preview.querySelector('.avatar-orb')?.remove();
     figure = Avatar({ character: 'organic-apprentice', state: 'idle', size: 'preview', config: avatarConfig });
     figure.classList.add('avatar-preview-art');
     preview.prepend(figure);
@@ -216,7 +207,15 @@ function render(s) {
 
   const avatarPanel = $('#avatar-panel');
   if (avatarPanel) {
-    avatarPanel.innerHTML = `<div class="avatar-card"><div class="avatar-orb"></div><div><div class="avatar-name">FIELD ALCHEMIST</div><div class="avatar-sub">${s.player.hp} / ${s.player.max_hp} HP</div></div></div>`;
+    avatarPanel.innerHTML = '';
+    const card = document.createElement('div');
+    card.className = 'avatar-card';
+    const panelArt = Avatar({ character: 'organic-apprentice', state: 'idle', size: 'panel', config: s.avatar?.config || s.avatar });
+    panelArt.classList.add('avatar-panel-art');
+    const info = document.createElement('div');
+    info.innerHTML = `<div class="avatar-name">FIELD ALCHEMIST</div><div class="avatar-sub">${s.player.hp} / ${s.player.max_hp} HP</div>`;
+    card.append(panelArt, info);
+    avatarPanel.append(card);
   }
 
   const log = $('#log');
@@ -389,11 +388,6 @@ function drawScene(s) {
 }
 
 function bindDomEvents() {
-  ['body', 'skin', 'hair', 'outfit', 'accessory'].forEach((id) => {
-    const element = $('#' + id);
-    if (element) element.addEventListener('change', updateAvatarPreview);
-  });
-
   const startButton = $('#start');
   if (startButton) {
     startButton.addEventListener('click', async () => {

diff --git a/tests/test_game.py b/tests/test_game.py
@@ -54,3 +54,66 @@ def test_page_uses_versioned_static_assets():
     html = client.get('/').text
     assert '/static/css/game.css?v=' in html
     assert '/static/js/main.js?v=' in html
+
+
+# --- Avatar-only regression tests (added alongside the avatar art/cleanup pass) ---
+# These verify the avatar layer stays purely presentational: combat math, cooldowns,
+# and progression must be identical regardless of what avatar config is stored.
+
+def test_avatar_with_missing_config_still_works_like_a_legacy_save():
+    """An avatar payload with no `config` (as an older/legacy save might have) must
+    still finalize successfully and default to a safe empty config rather than
+    erroring or blocking gameplay."""
+    s = start(); sid = s['session_id']
+    response = client.post('/api/avatar/finalize', params={'session_id': sid}, json=avatar())
+    assert response.status_code == 200
+    assert response.json()['avatar']['config'] == {}
+    # Gameplay must remain fully available with this minimal/legacy avatar.
+    spell = client.post('/api/battle/select-spell', params={'session_id': sid}, json={'spell_id': 'acid-shot'})
+    assert spell.status_code == 200
+
+
+def test_avatar_customization_does_not_change_damage_or_cooldowns():
+    """Two sessions with different avatar configs but the same spell/answer choices
+    must produce identical combat outcomes: avatar config is presentation-only."""
+    outcomes = []
+    for config in ({}, {'skinTone': 'deep', 'hair': {'style': 'curly', 'color': 'blue-black'}, 'coat': 'reaction-coat', 'accessory': 'wrist-device'}):
+        s = start(); sid = s['session_id']
+        client.post('/api/avatar/finalize', params={'session_id': sid}, json={**avatar(), 'config': config})
+        q = client.post('/api/battle/select-spell', params={'session_id': sid}, json={'spell_id': 'fire-spark'}).json()
+        answers = {
+            'What does sp3 hybridization describe?': 'Four equivalent hybrid orbitals',
+            'A nucleophile is best described as…': 'An electron-pair donor',
+            'SN2 reactions are characterized by…': 'Backside attack and inversion',
+            'Enantiomers are molecules that are': 'Non-superimposable mirror images',
+            'IR spectroscopy is especially useful for identifying…': 'Functional-group vibrations',
+            'In a resonance hybrid, the real molecule has…': 'Electron density spread across contributors',
+        }
+        answer = next(v for k, v in answers.items() if q['question']['prompt'].startswith(k))
+        result = client.post('/api/battle/answer', params={'session_id': sid}, json={'answer': answer}).json()
+        outcomes.append((result['damage'], result['correct'], round(result['cooldowns']['fire-spark'])))
+    assert outcomes[0] == outcomes[1]
+
+
+def test_avatar_config_persists_unchanged_across_subsequent_state_reads():
+    """The exact avatar configuration selected at finalize time must still be
+    present, byte-for-byte, when the game state is re-fetched later (e.g. as the
+    battle screen re-renders the avatar on every turn)."""
+    s = start(); sid = s['session_id']
+    config = {'skinTone': 'light', 'hair': {'style': 'medium-layered', 'color': 'brown'}, 'flask': 'orange-energy', 'accentColor': 'crimson'}
+    client.post('/api/avatar/finalize', params={'session_id': sid}, json={**avatar(), 'config': config})
+    client.post('/api/battle/select-spell', params={'session_id': sid}, json={'spell_id': 'carbon-punch'})
+    state = client.get('/api/game/state', params={'session_id': sid}).json()
+    assert state['avatar']['config'] == config
+
+
+def test_avatar_endpoints_do_not_expose_boss_or_progression_regressions():
+    """Sanity check that finalizing an avatar (with a rich config) leaves boss HP,
+    chapter, and progression exactly as a fresh session would have them."""
+    s = start(); sid = s['session_id']
+    before = client.get('/api/progression', params={'session_id': sid}).json()
+    client.post('/api/avatar/finalize', params={'session_id': sid}, json={**avatar(), 'config': {'coat': 'advanced-chemist'}})
+    after = client.get('/api/progression', params={'session_id': sid}).json()
+    assert before['boss']['hp'] == after['boss']['hp']
+    assert before['chapter'] == after['chapter']
+    assert before['completed'] == after['completed'] == []

diff --git a/main.py b/main.py
@@ -1,0 +1,6 @@
+def main():
+    print("Hello from organicbattlesv2!")
+
+
+if __name__ == "__main__":
+    main()

diff --git a/ASSET_SOURCES.md b/ASSET_SOURCES.md
@@ -9,3 +9,7 @@ The Avatar System V2 artwork is original inline SVG authored for Organic Battles
 | Carbonyl Dragon | Repository asset | Organic Battles V2 | Repository-provided transparent RGBA PNG | Used as the boss artwork with CSS state animation and effects | `static/assets/avatars/carbonyl-dragon.png` |
 
 The runtime character artwork is sourced from the repository's `avatars/` folder and copied into `static/assets/avatars/` for serving. The files are transparent RGBA PNGs; CSS owns presentation filters, glow, overlays, and motion. The external SVG examples listed in the design brief were not included, so no external attribution is required.
+
+## Asset quality fix (avatar-only)
+
+The three source PNGs originally shipped with visible fragments of a *different* character bled into the frame (a stray hand, a magic orb, and a cloak edge on `organic-apprentice.png`; a floating orb and a claw/wing tip on `reaction-mage.png` and `carbonyl-dragon.png` respectively) — evidence of an uncleaned crop from a multi-character sheet. Each file was reprocessed with connected-component analysis (keep only the largest contiguous alpha region, which is always the intended character) and re-trimmed to a tight bounding box. No hue, pose, or proportion was altered; only the disconnected foreign fragments were removed. Filenames, dimensions ratio, and transparency remain otherwise compatible with the existing renderer.
